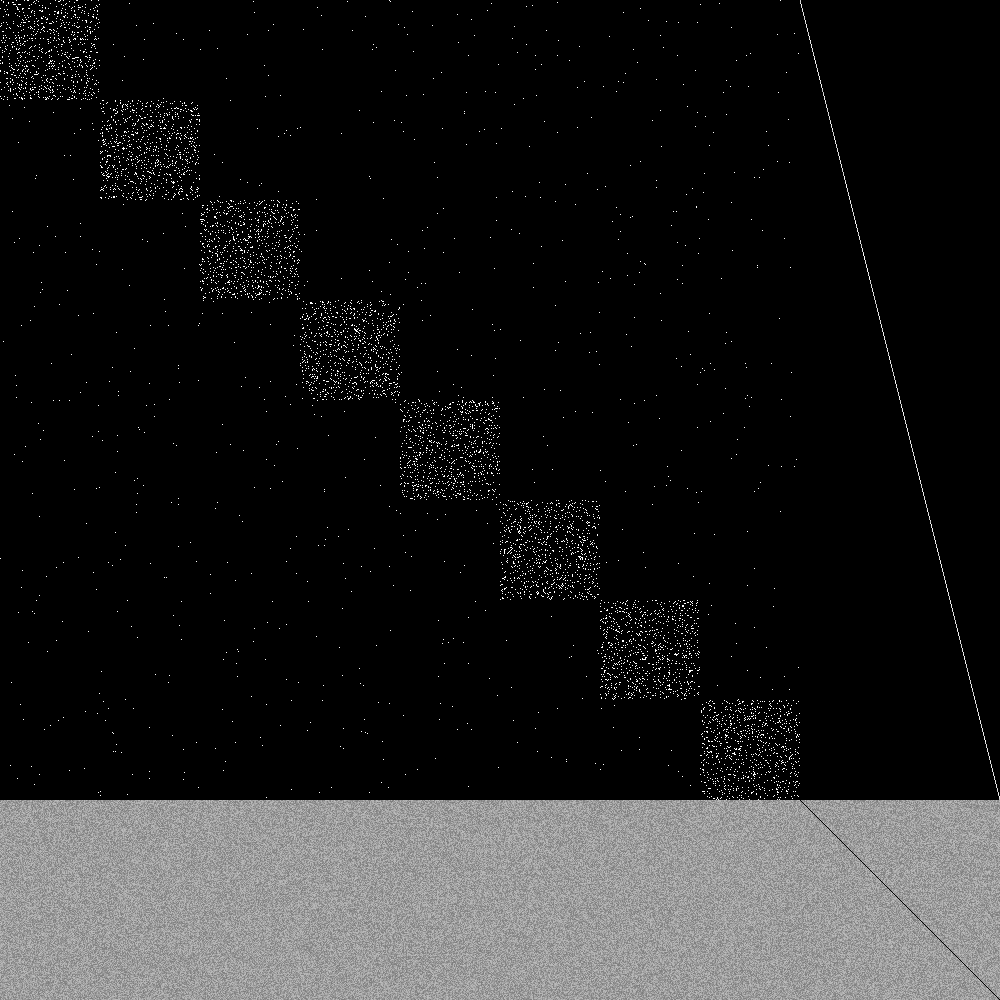
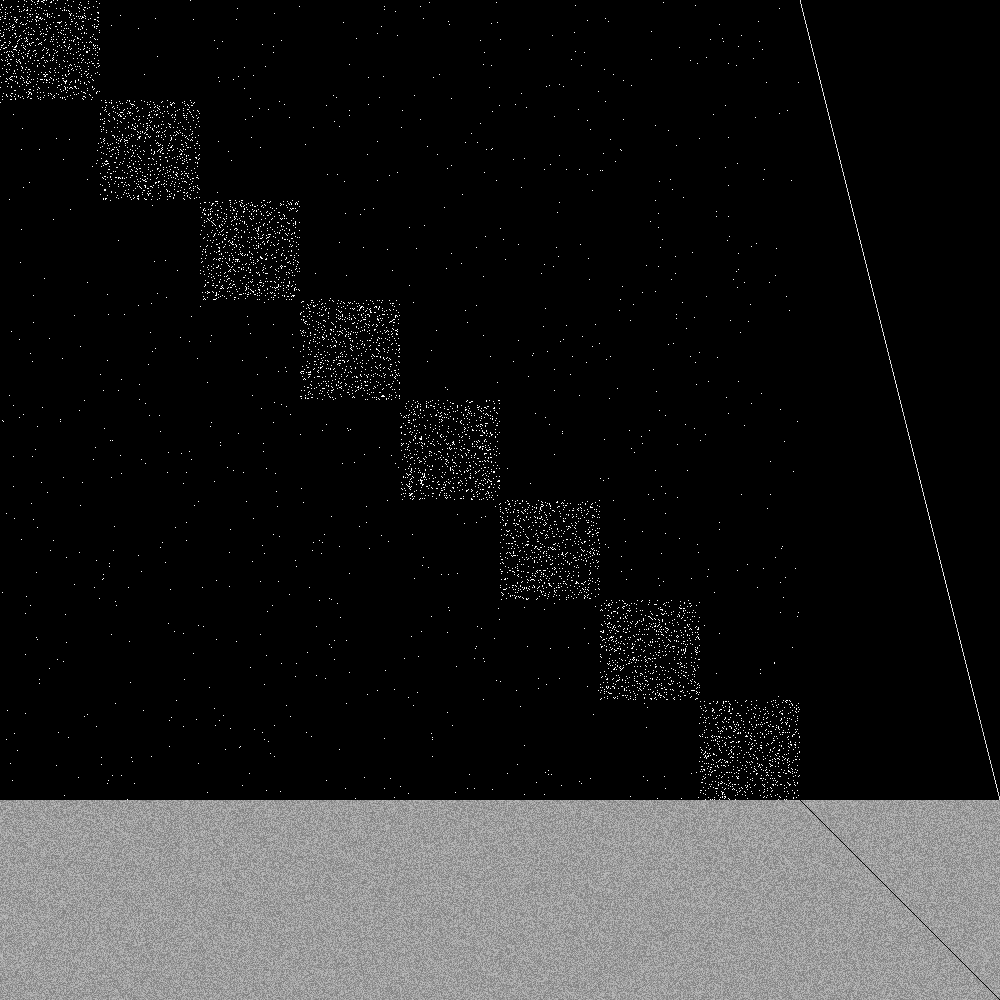
Multiply the scaling factor while creating the blocks

diff --git a/utils/swm_network.py b/utils/swm_network.py
@@ -53,10 +53,10 @@ class SWMNetwork:
         F_II = 1
 
         zero_block = np.zeros((self.ee_m_neurons, self.ee_m_neurons))
-        II_block = -1 * np.random.random(size=(self.i_neurons, self.i_neurons))
+        II_block = -1 * np.random.random(size=(self.i_neurons, self.i_neurons)) * F_II
         np.fill_diagonal(II_block, 0)
-        IE_blocks = [-1 * np.random.random(size=(self.i_neurons, self.ee_m_neurons)) for _ in range(self.modules_num)]
-        EI_blocks = [create_EI_block(i, self.ee_m_neurons, self.i_neurons) for i in range(0, self.i_neurons, 25)]
+        IE_blocks = [-1 * np.random.random(size=(self.i_neurons, self.ee_m_neurons)) * F_IE for _ in range(self.modules_num)]
+        EI_blocks = [create_EI_block(i, self.ee_m_neurons, self.i_neurons) * F_EI for i in range(0, self.i_neurons, 25)]
 
         """
         [   EE      zero    zero    zero    zero    zero    zero    E-I
@@ -69,7 +69,7 @@ class SWMNetwork:
         """
         ## TODO generate W matrix
         W = np.bmat([
-            [zero_block for _ in range(0, i)] + [create_EE_block(self.ee_m_neurons, self.ee_m_edges)] + [zero_block for _ in range(i+1, self.modules_num)] + [EI_blocks[i]] for i in range(self.modules_num)
+            [zero_block for _ in range(0, i)] + [create_EE_block(self.ee_m_neurons, self.ee_m_edges) * F_EE] + [zero_block for _ in range(i+1, self.modules_num)] + [EI_blocks[i]] for i in range(self.modules_num)
         ] + [IE_blocks + [II_block]])
 
         plot_weight_matrix(W)
